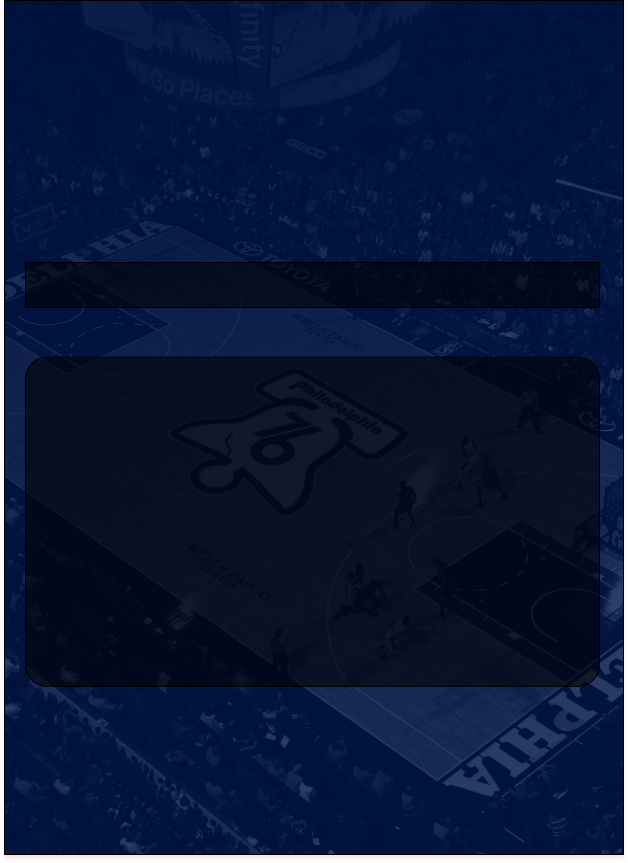
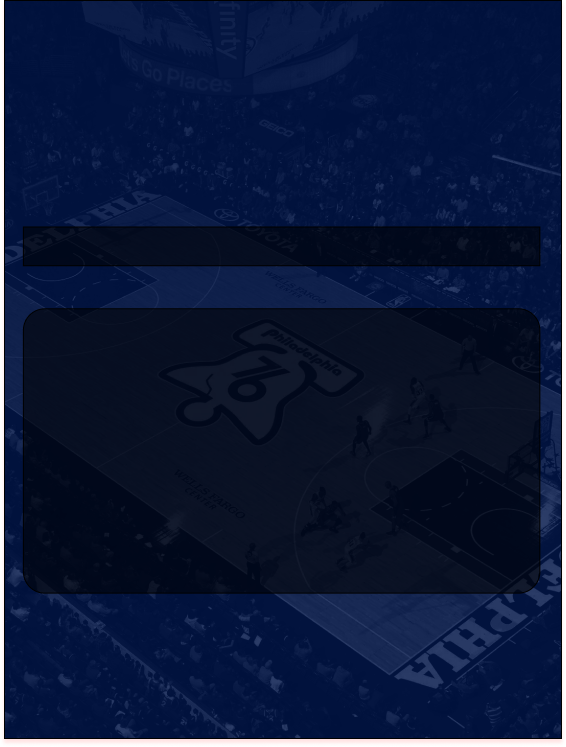
Naprawiony rozmiar

diff --git a/src/ZawodnikUklad.java b/src/ZawodnikUklad.java
@@ -162,7 +162,7 @@ public class ZawodnikUklad extends JPanel {
 
 
         //adjust size and set layout
-        setPreferredSize(new Dimension(608, 839));
+        setPreferredSize(new Dimension(558, 739));
         setLayout(null);
 
         //add components
@@ -241,77 +241,77 @@ public class ZawodnikUklad extends JPanel {
 
 
         //set component bounds (only needed by Absolute Positioning)
-        bground.setBounds(0, 0, 610, 840);
-        naziwso.setBounds(30, 185, 210, 60);
-        zdjecie.setBounds(345, 30, 200, 215);
-        wynik1.setBounds(30, 405, 80, 50);
-        ppg2.setBounds(225, 455, 40, 50);
-        wynik3.setBounds(30, 505, 80, 50);
-        wynik4.setBounds(30, 555, 80, 50);
-        wynik5.setBounds(30, 605, 80, 50);
-        imie.setBounds(35, 106, 300, 90);
-        ppg_4.setBounds(265, 555, 40, 50);
-        apg5.setBounds(305, 605, 40, 50);
-        logo1.setBounds(110, 405, 60, 50);
-        fg1.setBounds(505, 405, 40, 50);
-        ppg1.setBounds(225, 405, 40, 50);
-        ppg_1.setBounds(265, 405, 40, 50);
-        apg1.setBounds(305, 405, 40, 50);
-        apg_1.setBounds(345, 405, 40, 50);
-        rpgS.setBounds(385, 405, 40, 50);
-        rpg1.setBounds(425, 405, 40, 50);
-        fgS.setBounds(465, 405, 40, 50);
-        ppg3.setBounds(225, 505, 40, 50);
-        wynik2.setBounds(30, 455, 80, 50);
-        logo2.setBounds(110, 455, 60, 50);
-        logo3.setBounds(110, 505, 60, 50);
-        logo5.setBounds(110, 605, 60, 50);
-        logo4.setBounds(110, 555, 60, 50);
-        ppg_2.setBounds(265, 455, 40, 50);
-        fg2.setBounds(505, 455, 40, 50);
-        ppg_3.setBounds(265, 505, 40, 50);
-        ppg4.setBounds(225, 555, 40, 50);
-        ppg5.setBounds(225, 605, 40, 50);
-        ppg_5.setBounds(265, 605, 40, 50);
-        apg3.setBounds(305, 505, 40, 50);
-        apg2.setBounds(305, 455, 40, 50);
-        apg_2.setBounds(345, 455, 40, 50);
-        rpgSS.setBounds(385, 455, 40, 50);
-        rpg2.setBounds(425, 455, 40, 50);
-        fgSS.setBounds(465, 455, 40, 50);
-        rpgSSSS.setBounds(385, 555, 40, 50);
-        fgSSSSS.setBounds(465, 605, 40, 50);
-        apg_4.setBounds(345, 555, 40, 50);
-        rpg4.setBounds(425, 555, 40, 50);
-        fg5.setBounds(505, 605, 40, 50);
-        fgSSS.setBounds(465, 505, 40, 50);
-        apg_3.setBounds(345, 505, 40, 50);
-        fg4.setBounds(505, 555, 40, 50);
-        fg3.setBounds(505, 505, 40, 50);
-        rpgSSS.setBounds(385, 505, 40, 50);
-        fgSSSS.setBounds(465, 555, 40, 50);
-        apg4.setBounds(305, 555, 40, 50);
-        rpg3.setBounds(425, 505, 40, 50);
-        rpg5.setBounds(425, 605, 40, 50);
-        rpgSSSSS.setBounds(385, 605, 40, 50);
-        apg_5.setBounds(345, 605, 40, 50);
-        butt_pop.setBounds(185, 725, 100, 25);
-        but_nas.setBounds(320, 725, 100, 25);
-        ppg.setBounds(50, 255, 60, 50);
-        ppg_n.setBounds(110, 255, 60, 50);
-        apg.setBounds(170, 255, 60, 50);
-        apg_n.setBounds(230, 255, 60, 50);
-        rpg.setBounds(290, 255, 60, 50);
-        rpg_n.setBounds(350, 255, 60, 50);
-        label.setBounds(30, 350, 260, 50);
-        numer.setBounds(240, 185, 85, 60);
-        fg.setBounds(410, 255, 60, 50);
-        fg_n.setBounds(470, 255, 60, 50);
-        but_tab.setBounds(250, 780, 100, 50);
-        but_mecz.setBounds(150, 780, 100, 50);
-        but_ros.setBounds(50, 780, 100, 50);
-        but_sta.setBounds(350, 780, 100, 50);
-        but_apl.setBounds(450, 780, 100, 50);
+        bground.setBounds(0, 0, 558, 739);
+        naziwso.setBounds(30, 165, 210, 60);
+        zdjecie.setBounds(335, 5, 200, 215);
+        wynik1.setBounds(30, 310, 80, 50);
+        ppg2.setBounds(225, 370, 40, 50);
+        wynik3.setBounds(30, 417, 80, 50);
+        wynik4.setBounds(30, 470, 80, 50);
+        wynik5.setBounds(30, 530, 80, 50);
+        imie.setBounds(35, 96, 300, 90);
+        ppg_4.setBounds(265, 470, 40, 50);
+        apg5.setBounds(305, 530, 40, 50);
+        logo1.setBounds(110, 310, 60, 50);
+        fg1.setBounds(505, 310, 40, 50);
+        ppg1.setBounds(225, 310, 40, 50);
+        ppg_1.setBounds(265, 310, 40, 50);
+        apg1.setBounds(305, 310, 40, 50);
+        apg_1.setBounds(345, 310, 40, 50);
+        rpgS.setBounds(385, 310, 40, 50);
+        rpg1.setBounds(425, 310, 40, 50);
+        fgS.setBounds(465, 310, 40, 50);
+        ppg3.setBounds(225, 417, 40, 50);
+        wynik2.setBounds(30, 370, 80, 50);
+        logo2.setBounds(110, 367, 57, 47);
+        logo3.setBounds(110, 417, 57, 47);
+        logo5.setBounds(110, 530, 57, 47);
+        logo4.setBounds(110, 470, 57, 47);
+        ppg_2.setBounds(265, 370, 40, 50);
+        fg2.setBounds(505, 370, 40, 50);
+        ppg_3.setBounds(265, 417, 40, 50);
+        ppg4.setBounds(225, 470, 40, 50);
+        ppg5.setBounds(225, 530, 40, 50);
+        ppg_5.setBounds(265, 530, 40, 50);
+        apg3.setBounds(305, 417, 40, 50);
+        apg2.setBounds(305, 370, 40, 50);
+        apg_2.setBounds(345, 370, 40, 50);
+        rpgSS.setBounds(385, 370, 40, 50);
+        rpg2.setBounds(425, 370, 40, 50);
+        fgSS.setBounds(465, 370, 40, 50);
+        rpgSSSS.setBounds(385, 470, 40, 50);
+        fgSSSSS.setBounds(465, 530, 40, 50);
+        apg_4.setBounds(345, 470, 40, 50);
+        rpg4.setBounds(425, 470, 40, 50);
+        fg5.setBounds(505, 530, 40, 50);
+        fgSSS.setBounds(465, 417, 40, 50);
+        apg_3.setBounds(345, 417, 40, 50);
+        fg4.setBounds(505, 470, 40, 50);
+        fg3.setBounds(505, 417, 40, 50);
+        rpgSSS.setBounds(385, 417, 40, 50);
+        fgSSSS.setBounds(465, 470, 40, 50);
+        apg4.setBounds(305, 470, 40, 50);
+        rpg3.setBounds(425, 417, 40, 50);
+        rpg5.setBounds(425, 530, 40, 50);
+        rpgSSSSS.setBounds(385, 530, 40, 50);
+        apg_5.setBounds(345, 530, 40, 50);
+        butt_pop.setBounds(185, 605, 100, 25);
+        but_nas.setBounds(320, 605, 100, 25);
+        ppg.setBounds(50, 220, 60, 50);
+        ppg_n.setBounds(110, 220, 60, 50);
+        apg.setBounds(170, 220, 60, 50);
+        apg_n.setBounds(230, 220, 60, 50);
+        rpg.setBounds(290, 220, 60, 50);
+        rpg_n.setBounds(350, 220, 60, 50);
+        label.setBounds(30, 260, 260, 50);
+        numer.setBounds(240, 165, 85, 60);
+        fg.setBounds(410, 220, 60, 50);
+        fg_n.setBounds(470, 220, 60, 50);
+        but_tab.setBounds(230, 680, 100, 50);
+        but_mecz.setBounds(130, 680, 100, 50);
+        but_ros.setBounds(30, 680, 100, 50);
+        but_sta.setBounds(320, 680, 100, 50);
+        but_apl.setBounds(420, 680, 100, 50);
 
         //Ustawienie koloru wyników meczy
         if (Mecz.ustawKolor(1) == 1) wynik1.setForeground(Color.RED);
@@ -561,7 +561,7 @@ public class ZawodnikUklad extends JPanel {
                 apg_n.setText(String.valueOf(StatystykiZawodnika.statystykiAST(i)));
                 rpg_n.setText(String.valueOf(StatystykiZawodnika.statystykiREB(i)));
                 fg_n.setText(String.valueOf(StatystykiZawodnika.statystykiFG(i)));
-                System.out.println(i);
+
                 if (i==0){
                     ppg_1.setText(String.valueOf(StatystykiZawodnika.listaMaxey.get(StatystykiZawodnika.listaMaxey.size()-1).pts));
                     ppg_2.setText(String.valueOf(StatystykiZawodnika.listaMaxey.get(StatystykiZawodnika.listaMaxey.size()-2).pts));
@@ -645,7 +645,7 @@ public class ZawodnikUklad extends JPanel {
     public static void main() {
         JFrame framee = new JFrame("Phila 76sers");
         framee.setDefaultCloseOperation(JFrame.EXIT_ON_CLOSE);
-        ImageIcon icon = new ImageIcon("img/logo.png");
+        ImageIcon icon = new ImageIcon("teamImage/boston.png");
         framee.getContentPane().add(new ZawodnikUklad());
         framee.pack();
         framee.setLocationRelativeTo(null);

diff --git a/src/Main.java b/src/Main.java
@@ -18,7 +18,7 @@ public class Main {
 
         new Mecz("Minnesota Timberwolves", 113,145,"21/12/2023","teamImage/minnesota.png");
         new Mecz("Blazers", 113,144,"21/12/2023","teamImage/blazers.png");
-        new Mecz("Lakers", 120, 113, "21/12/2023", "teamImage/lakers.png");
+        new Mecz("Suns", 120, 113, "21/12/2023", "teamImage/suns.png");
         new Mecz("Celtics", 105, 162, "21/12/2023", "teamImage/boston.png");
         new Mecz("Warriors", 118, 101, "21/12/2023", "teamImage/warriors.png");
 

diff --git a/src/StatystykiZawodnika.java b/src/StatystykiZawodnika.java
@@ -31,8 +31,6 @@ static List<StatystykiZawodnika> listaMelton = new ArrayList<>();
                 for (int i=0; i<= listaMaxey.size()-1;i++){
                 s_PTS = s_PTS + listaMaxey.get(i).pts;}
                 double PTS = (s_PTS)/((listaMaxey.size()));
-                System.out.println(PTS);
-                System.out.println(listaMaxey.size());
                 return PTS;
             case 1:
                 double E_PTS = 0;
